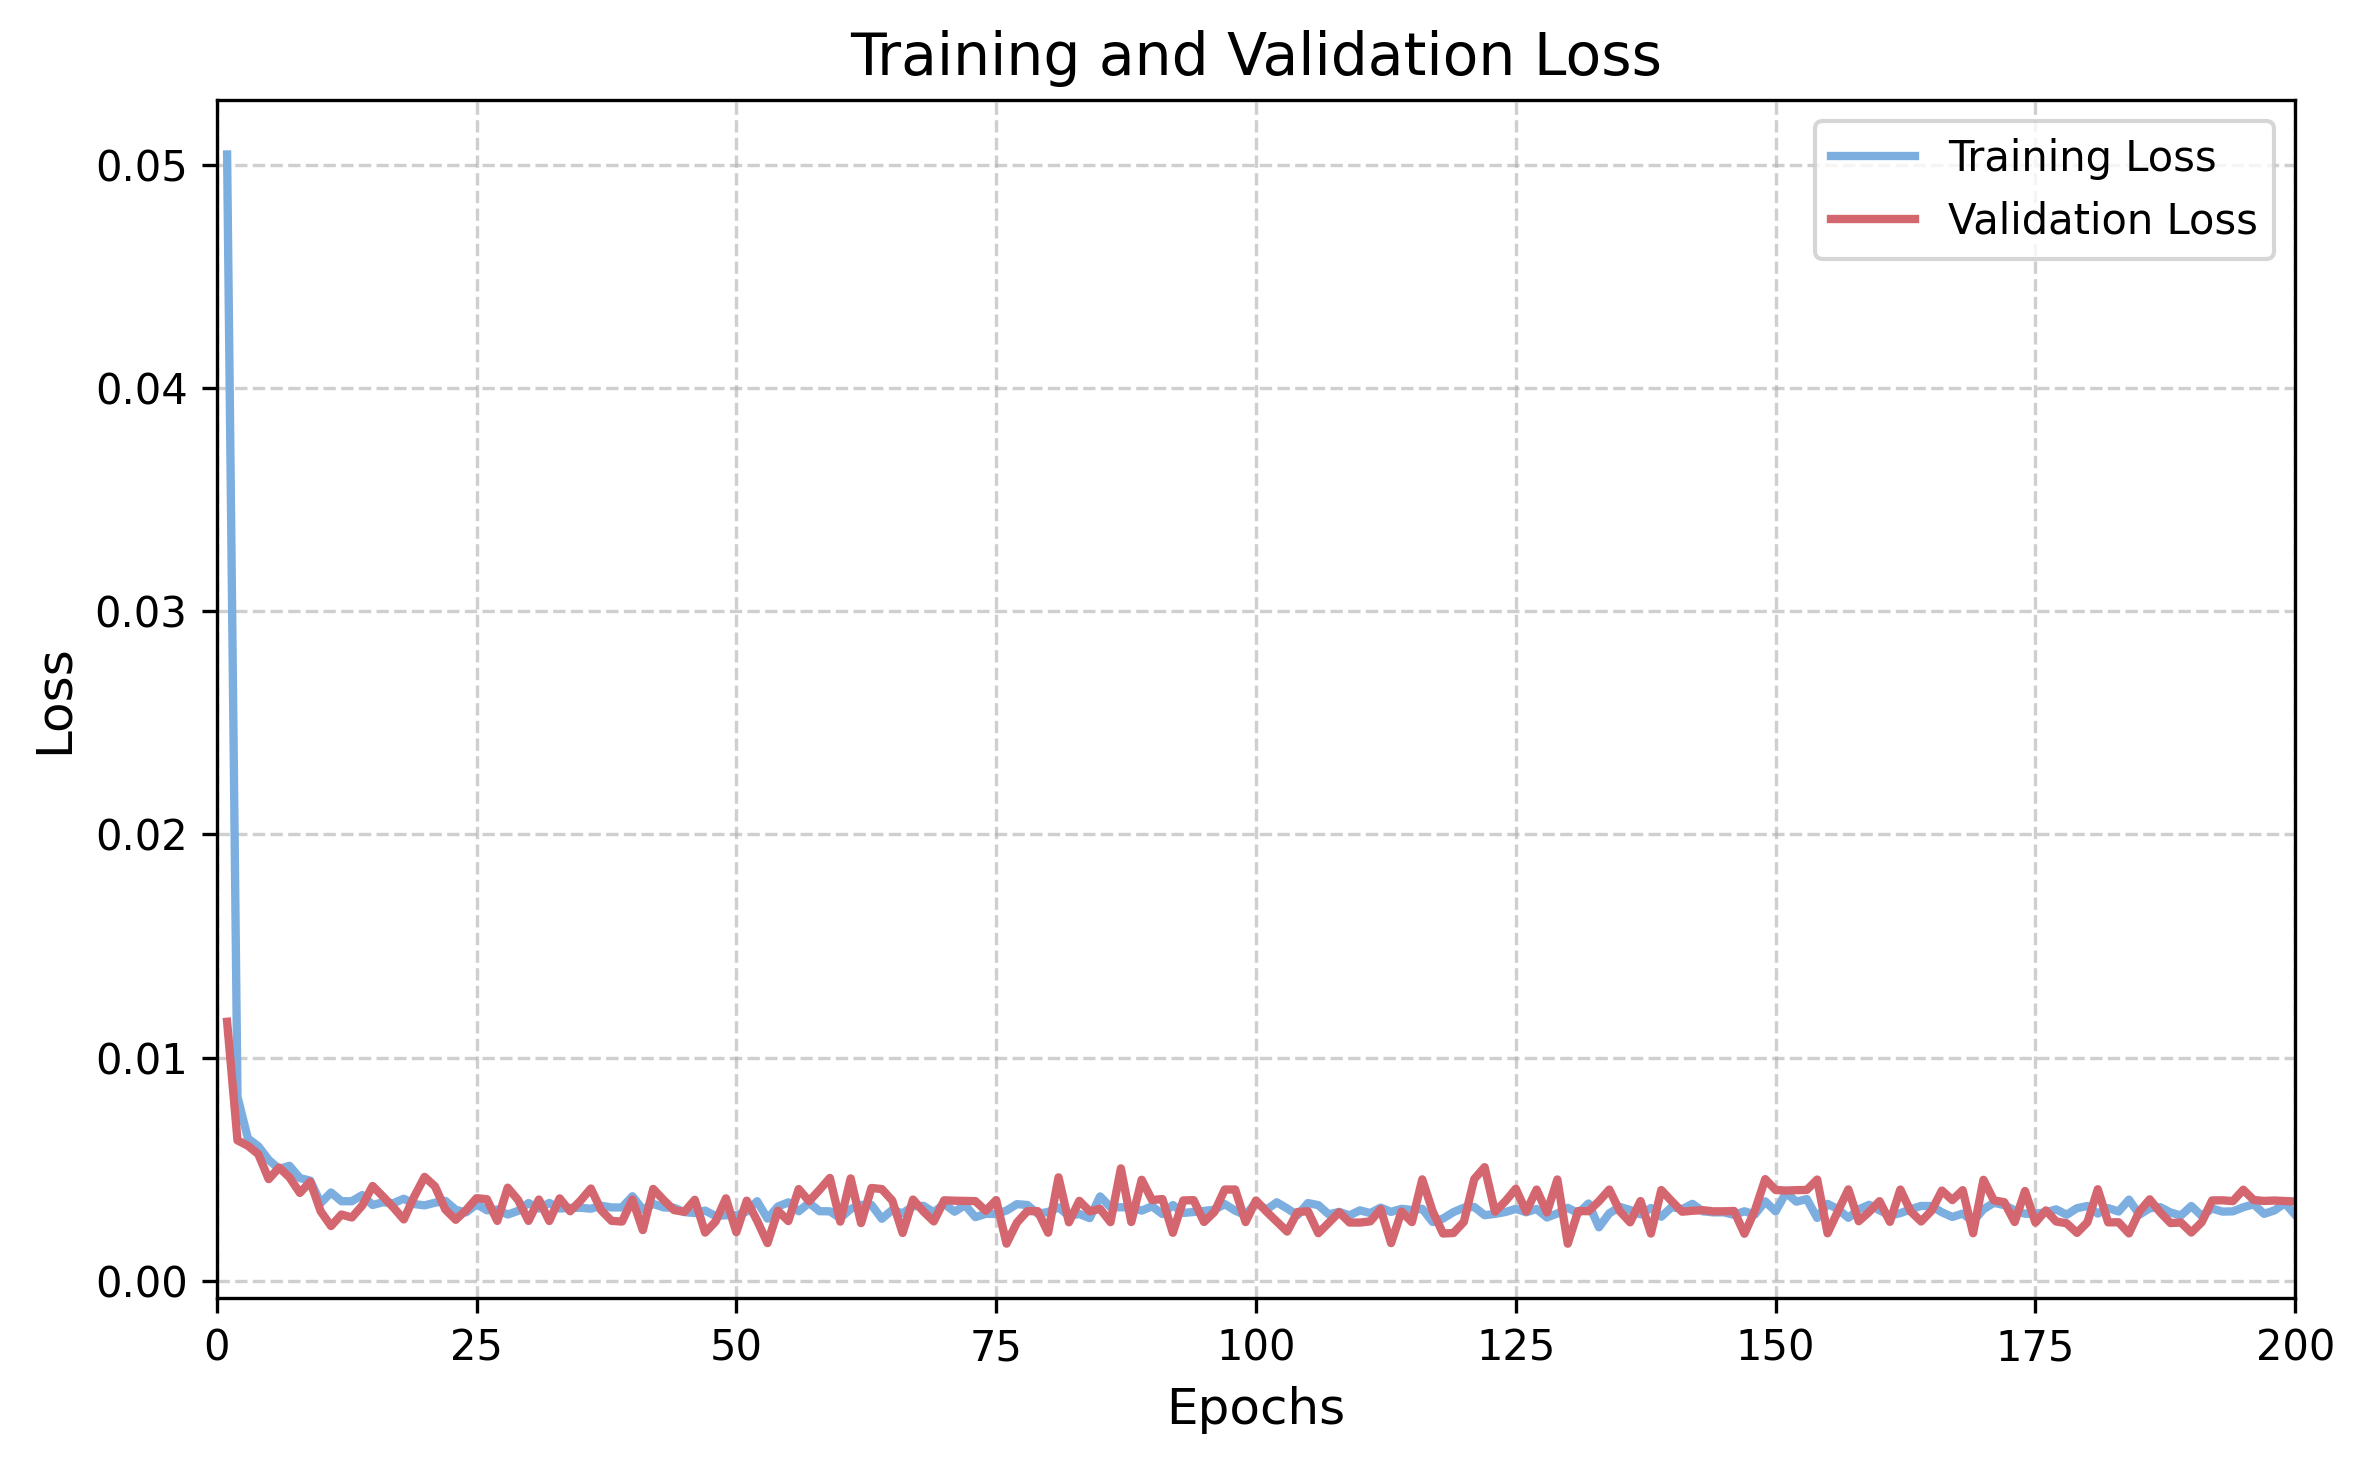
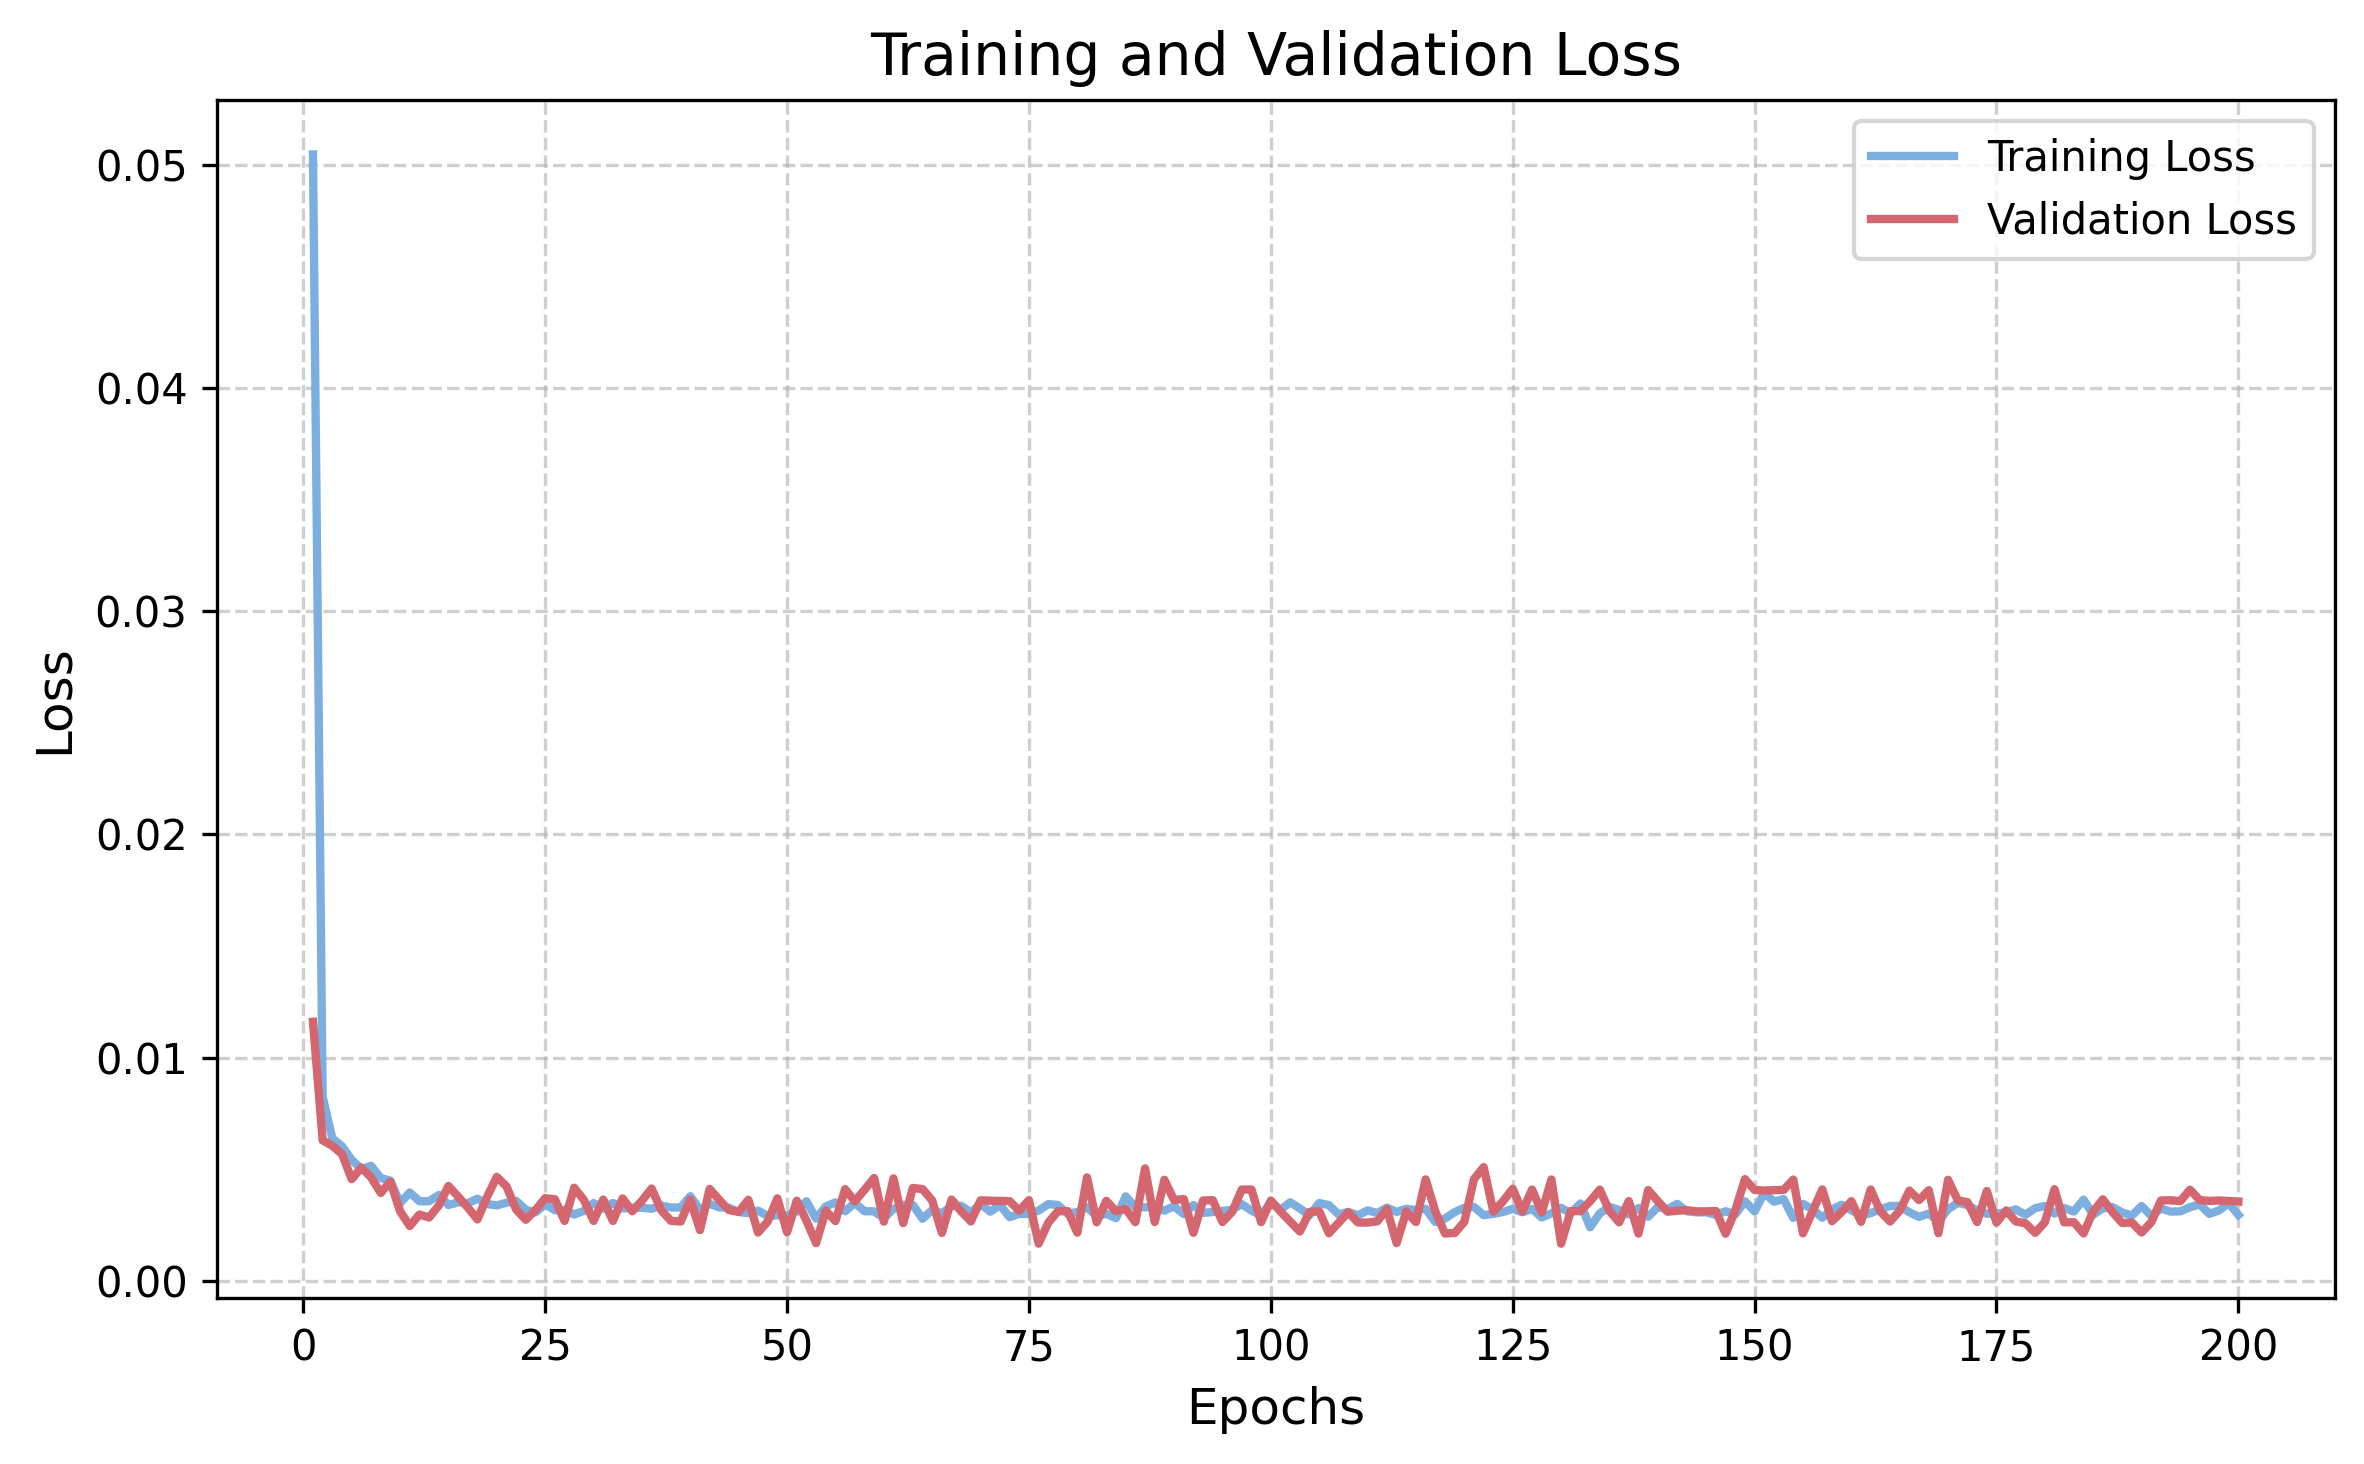
Modified figs

diff --git a/source/standalone/workflows/robomimic/tools/plot_figs.py b/source/standalone/workflows/robomimic/tools/plot_figs.py
@@ -5,7 +5,8 @@ from pathlib import Path
 TOOLS_DIR = Path(__file__).resolve().parent
 ROBOMIMIC_DIR = TOOLS_DIR.parent
 
-RESULT_DIR = ROBOMIMIC_DIR / "results" / "bc_200demo_50epo" / "tb_csv"
+RESULT_DIR = ROBOMIMIC_DIR / "results" / "bc_200demo_200epoch" 
+CSV_DIR = RESULT_DIR / "tb_csv"
 save_path = RESULT_DIR / "figs" / "loss.png"
 save_path_grad = RESULT_DIR / "figs" / "policy_grad_norm.png"
 
@@ -15,7 +16,7 @@ def plot_loss(train_df, valid_df, save_path):
     plt.plot(valid_df['Step'], valid_df['Value'], label='Validation Loss', color="#D4666F", linewidth=2)
 
     plt.title("Training and Validation Loss", fontsize=14)
-    plt.xlim(0, 200)
+    # plt.xlim(0, 200)
     plt.xlabel("Epochs", fontsize=12)
     plt.ylabel("Loss", fontsize=12)
     plt.grid(True, linestyle='--', alpha=0.6)
@@ -30,7 +31,7 @@ def plot_policy_grad_norm(df, save_path_grad):
     plt.plot(df['Step'], df['Value'], label='Policy Grad Norm', color="#7DAEE0", linewidth=2)
 
     plt.title("Training Policy Grad Norms", fontsize=14)
-    plt.xlim(0, 200)
+    # plt.xlim(0, 200)
     plt.xlabel("Epochs", fontsize=12)
     plt.ylabel("Grad Norms", fontsize=12)
     plt.grid(True, linestyle='--', alpha=0.6)
@@ -41,9 +42,9 @@ def plot_policy_grad_norm(df, save_path_grad):
 
 def main():
    
-    train_loss_df = pd.read_csv(RESULT_DIR / "train_loss.csv")
-    valid_loss_df = pd.read_csv(RESULT_DIR / "valid_loss.csv")
-    norm_df = pd.read_csv(RESULT_DIR / "train_policy_grad_norm.csv")
+    train_loss_df = pd.read_csv(CSV_DIR / "train_loss.csv")
+    valid_loss_df = pd.read_csv(CSV_DIR / "valid_loss.csv")
+    norm_df = pd.read_csv(CSV_DIR / "train_policy_grad_norm.csv")
 
     save_path.parent.mkdir(parents=True, exist_ok=True)
 
@@ -54,4 +55,3 @@ def main():
 
 if __name__ == "__main__":
     main()
-    
